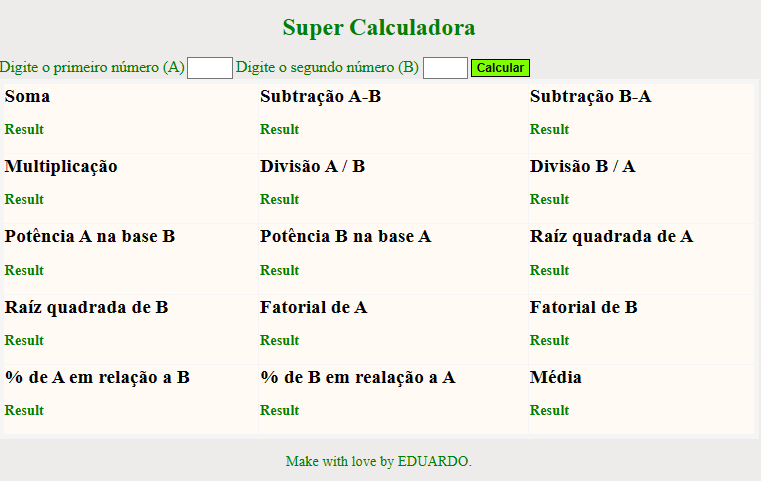
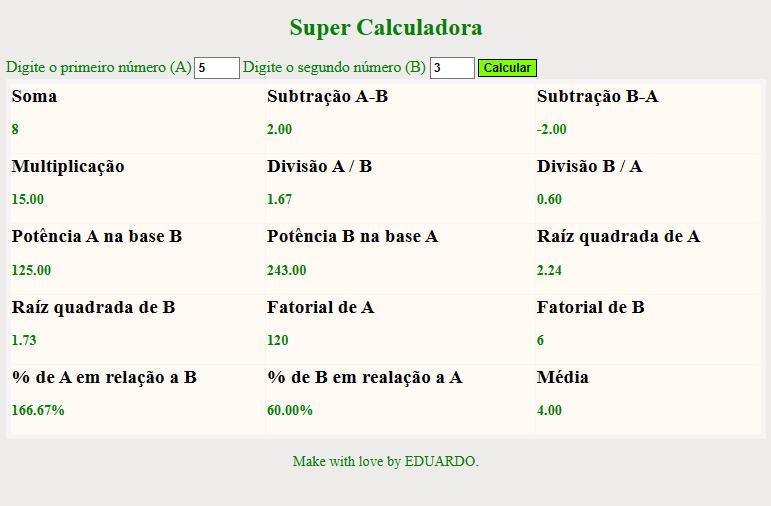
Fixando duas casas decimais e atualizando readme

diff --git a/script.js b/script.js
@@ -46,7 +46,7 @@ function calcularSubAB() {
     var valueB = Number(inputB.value)  
     let subABResult = (valueA - valueB) 
 
-   return subAB.textContent = subABResult
+   return subAB.textContent = subABResult.toFixed(2)
 
 }
 function calcularSubBA() {
@@ -57,7 +57,7 @@ function calcularSubBA() {
     var valueB = Number(inputB.value)  
     let subBAResult = (valueB - valueA) 
 
-   return subBA.textContent = subBAResult
+   return subBA.textContent = subBAResult.toFixed(2)
 
 }
 function multiplicacao() {
@@ -68,7 +68,7 @@ function multiplicacao() {
     var valueB = Number(inputB.value)  
     let multiplicacaoResult = (valueA * valueB) 
 
-   return multiplicacao.textContent = multiplicacaoResult
+   return multiplicacao.textContent = multiplicacaoResult.toFixed(2)
 
 }
 function divAB() {
@@ -79,7 +79,7 @@ function divAB() {
     var valueB = Number(inputB.value)  
     let divABResult = (valueA / valueB) 
 
-   return divAB.textContent = divABResult
+   return divAB.textContent = divABResult.toFixed(2)
 
 }
 function divBA() {
@@ -90,7 +90,7 @@ function divBA() {
     var valueB = Number(inputB.value)  
     let divBAResult = (valueB / valueA) 
 
-   return divBA.textContent = divBAResult
+   return divBA.textContent = divBAResult.toFixed(2)
 
 }
 function potAB() {
@@ -101,7 +101,7 @@ function potAB() {
     var valueB = Number(inputB.value)  
     let potABResult = (valueA ** valueB) 
 
-   return potAB.textContent = potABResult
+   return potAB.textContent = potABResult.toFixed(2)
 
 }
 function potBA() {
@@ -112,7 +112,7 @@ function potBA() {
     var valueB = Number(inputB.value)  
     let potBAResult = (valueB ** valueA) 
 
-   return potBA.textContent = potBAResult
+   return potBA.textContent = potBAResult.toFixed(2)
 
 }
 function raizA() {
@@ -123,7 +123,7 @@ function raizA() {
     var valueB = Number(inputB.value)  
     let raizAResult = (Math.sqrt(valueA)) 
 
-   return raizA.textContent = raizAResult
+   return raizA.textContent = raizAResult.toFixed(2)
 
 }
 function raizB() {
@@ -134,7 +134,7 @@ function raizB() {
     var valueB = Number(inputB.value)  
     let raizBResult = (Math.sqrt(valueB)) 
 
-   return raizB.textContent = raizBResult
+   return raizB.textContent = raizBResult.toFixed(2)
 
 }
 const fatorial = n => {
@@ -168,7 +168,7 @@ function percentAB() {
             var valueB = Number(inputB.value)  
             let percentABResult = (valueA / valueB)*100
         
-           return percentAB.textContent = percentABResult+"%"
+           return percentAB.textContent = percentABResult.toFixed(2) +"%"
 }
 function percentBA () {
             var percentBA = document.querySelector ("#percentBA")
@@ -178,7 +178,7 @@ function percentBA () {
             var valueB = Number(inputB.value)  
             let percentBAResult = (valueB / valueA)*100
         
-           return percentBA.textContent = percentBAResult+"%"
+           return percentBA.textContent = percentBAResult.toFixed(2)+"%"
 }
 function media() {
     var media = document.querySelector ("#media")
@@ -188,6 +188,6 @@ function media() {
     var valueB = Number(inputB.value)  
     let mediaResult = ((valueA+valueB) / 2 ) 
 
-   return media.textContent = mediaResult
+   return media.textContent = mediaResult.toFixed(2)
 
 }
